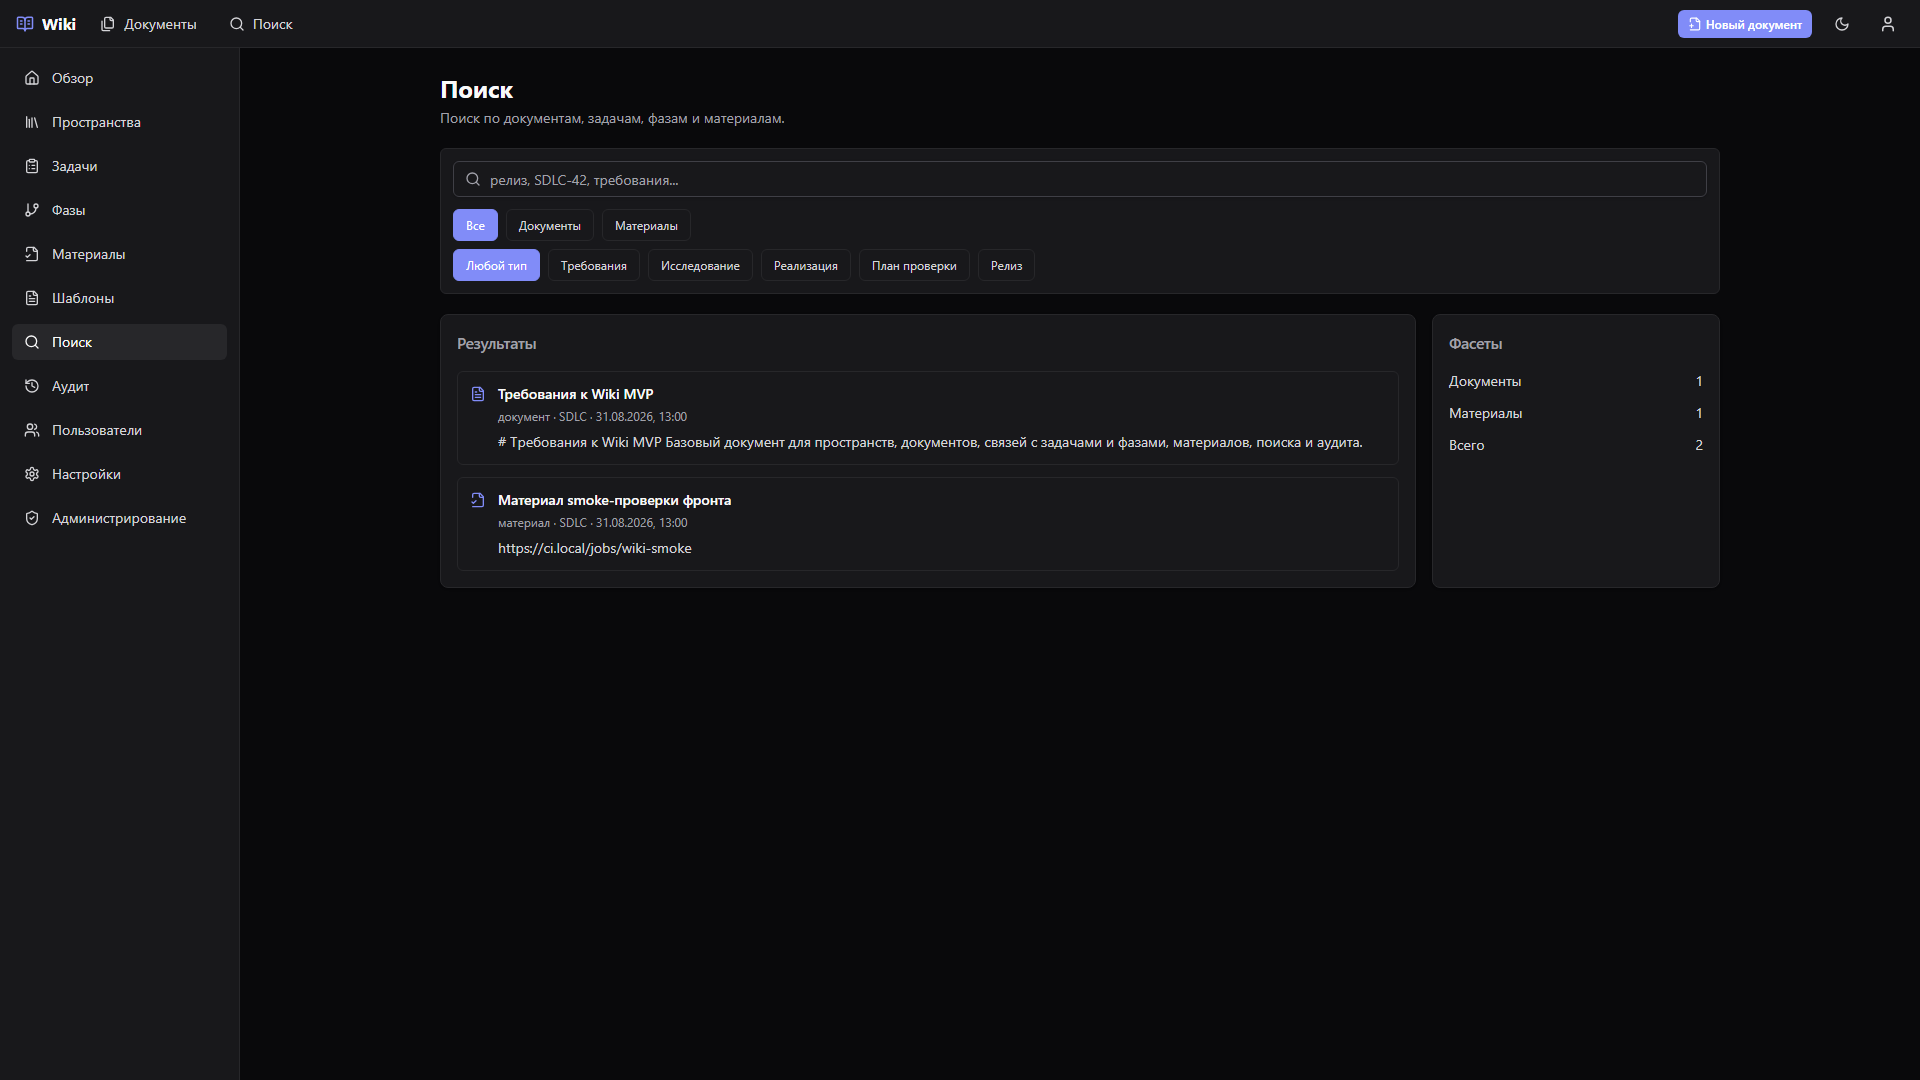
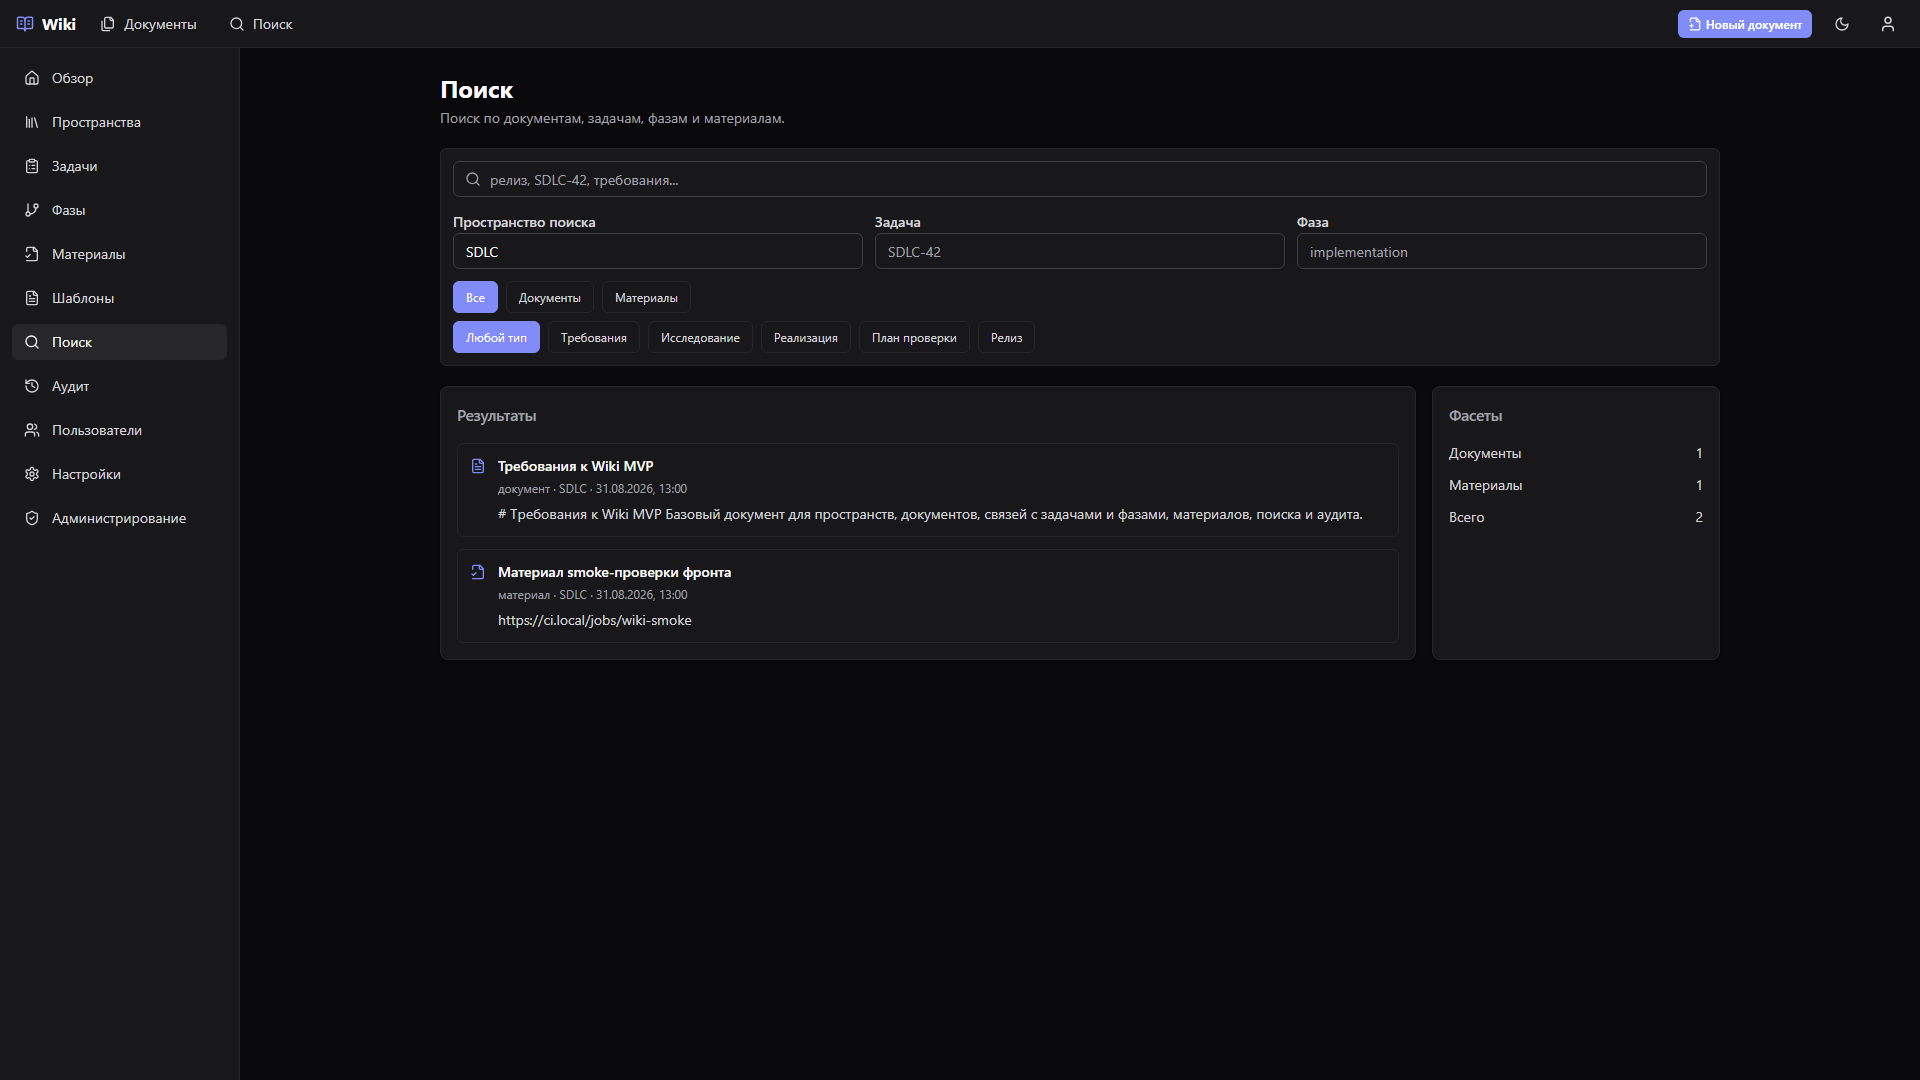
feat(frontend): expose search scope filters

diff --git a/frontend/src/pages/wiki-search/index.tsx b/frontend/src/pages/wiki-search/index.tsx
@@ -5,9 +5,10 @@ import { defaultSpaceKey, useWikiSearch } from '@/shared/api/hooks'
 import { EmptyState, ErrorState, LoadingState } from '@/shared/ui/async-states'
 import { Card, CardContent, CardHeader, CardTitle } from '@/shared/ui/card'
 import { Input } from '@/shared/ui/input'
+import { Label } from '@/shared/ui/label'
 import { formatApiErrorForUser } from '@/shared/lib/api-error'
 import { formatDateTime } from '@/shared/lib/wiki-format'
-import type { SearchResult } from '@/api/wiki'
+import type { SearchParams, SearchResult } from '@/api/wiki'
 
 const resultTypeFilters = [
   { label: 'Все', value: 'all' },
@@ -41,16 +42,30 @@ function countResults(results: SearchResult[], type: string) {
   return results.filter((result) => result.result_type === type).length
 }
 
+function optional(value: string) {
+  const trimmed = value.trim()
+  return trimmed === '' ? undefined : trimmed
+}
+
 export function WikiSearchPage() {
   const [query, setQuery] = useState('')
+  const [spaceFilter, setSpaceFilter] = useState(defaultSpaceKey)
+  const [taskFilter, setTaskFilter] = useState('')
+  const [phaseFilter, setPhaseFilter] = useState('')
   const [resultTypeFilter, setResultTypeFilter] = useState('all')
   const [documentTypeFilter, setDocumentTypeFilter] = useState('all')
-  const searchQuery = useWikiSearch({
-    q: query,
-    space: defaultSpaceKey,
-    document_type: documentTypeFilter === 'all' ? undefined : documentTypeFilter,
-    limit: 25,
-  })
+  const searchParams: SearchParams = useMemo(
+    () => ({
+      q: query,
+      space: optional(spaceFilter) ?? defaultSpaceKey,
+      task_key: optional(taskFilter),
+      phase_key: optional(phaseFilter),
+      document_type: documentTypeFilter === 'all' ? undefined : documentTypeFilter,
+      limit: 25,
+    }),
+    [documentTypeFilter, phaseFilter, query, spaceFilter, taskFilter],
+  )
+  const searchQuery = useWikiSearch(searchParams)
   const results = useMemo(() => searchQuery.data?.results ?? [], [searchQuery.data?.results])
   const filteredResults = useMemo(() => {
     if (resultTypeFilter === 'all') return results
@@ -70,11 +85,41 @@ export function WikiSearchPage() {
         <div className="relative">
           <Search className="pointer-events-none absolute left-3 top-2.5 h-4 w-4 text-text-muted" />
           <Input
+            aria-label="Поисковый запрос"
             className="pl-9"
             value={query}
             onChange={(event) => setQuery(event.target.value)}
             placeholder="релиз, SDLC-42, требования..."
           />
+        </div>
+        <div className="grid gap-3 md:grid-cols-3">
+          <div className="space-y-1.5">
+            <Label htmlFor="search-space">Пространство поиска</Label>
+            <Input
+              id="search-space"
+              value={spaceFilter}
+              onChange={(event) => setSpaceFilter(event.target.value.toUpperCase())}
+              placeholder="SDLC"
+            />
+          </div>
+          <div className="space-y-1.5">
+            <Label htmlFor="search-task">Задача</Label>
+            <Input
+              id="search-task"
+              value={taskFilter}
+              onChange={(event) => setTaskFilter(event.target.value)}
+              placeholder="SDLC-42"
+            />
+          </div>
+          <div className="space-y-1.5">
+            <Label htmlFor="search-phase">Фаза</Label>
+            <Input
+              id="search-phase"
+              value={phaseFilter}
+              onChange={(event) => setPhaseFilter(event.target.value)}
+              placeholder="implementation"
+            />
+          </div>
         </div>
         <div className="space-y-2">
           <div className="flex flex-wrap gap-2">

diff --git a/frontend/src/pages/wiki-search/wiki-search.test.tsx b/frontend/src/pages/wiki-search/wiki-search.test.tsx
@@ -54,7 +54,7 @@ describe('WikiSearchPage', () => {
     vi.clearAllMocks()
   })
 
-  it('filters visible result types and sends the selected document type to the API hook', () => {
+  it('filters visible result types and sends selected search filters to the API hook', () => {
     setupSearch()
 
     expect(screen.getByRole('link', { name: /Требования Wiki/ })).toHaveAttribute(
@@ -67,12 +67,22 @@ describe('WikiSearchPage', () => {
     expect(screen.getByRole('link', { name: /Требования Wiki/ })).toBeInTheDocument()
     expect(screen.queryByRole('link', { name: /Smoke proof/ })).not.toBeInTheDocument()
 
+    fireEvent.change(screen.getByLabelText('Поисковый запрос'), {
+      target: { value: 'релиз' },
+    })
+    fireEvent.change(screen.getByLabelText('Пространство поиска'), {
+      target: { value: 'eng' },
+    })
+    fireEvent.change(screen.getByLabelText('Задача'), { target: { value: 'SDLC-42' } })
+    fireEvent.change(screen.getByLabelText('Фаза'), { target: { value: 'testing' } })
     fireEvent.click(screen.getByRole('button', { name: 'План проверки' }))
     expect(useWikiSearch).toHaveBeenLastCalledWith({
       document_type: 'test_plan',
       limit: 25,
-      q: '',
-      space: 'SDLC',
+      phase_key: 'testing',
+      q: 'релиз',
+      space: 'ENG',
+      task_key: 'SDLC-42',
     })
   })
 

diff --git a/frontend/e2e/smoke.spec.ts b/frontend/e2e/smoke.spec.ts
@@ -461,10 +461,21 @@ test.describe('wiki smoke', () => {
 
     await page.goto(`${baseURL}/search`)
     await expect(page.getByRole('heading', { name: 'Поиск' })).toBeVisible()
+    await page.getByLabel('Поисковый запрос').fill('релиз')
+    await page.getByLabel('Пространство поиска').fill('SDLC')
+    await page.getByLabel('Задача').fill('SDLC-42')
+    await page.getByLabel('Фаза').fill('implementation')
     await page.getByRole('button', { name: 'Требования', exact: true }).click()
     await expect
       .poll(() =>
-        apiMocks.searchRequests.some((query) => query.includes('document_type=requirements')),
+        apiMocks.searchRequests.some(
+          (query) =>
+            query.includes('q=%D1%80%D0%B5%D0%BB%D0%B8%D0%B7') &&
+            query.includes('space=SDLC') &&
+            query.includes('task_key=SDLC-42') &&
+            query.includes('phase_key=implementation') &&
+            query.includes('document_type=requirements'),
+        ),
       )
       .toBe(true)
 

diff --git a/docs/CURRENT_STATE.md b/docs/CURRENT_STATE.md
@@ -41,7 +41,7 @@
 
 - Latest backend WSL regression after readiness, FTS query, attachment upload hardening, compose cleanup and shared tracker cleanup: `cargo fmt --all -- --check`, `cargo check --workspace`, `cargo test --workspace -- --test-threads=1 --nocapture`, `cargo clippy --workspace --all-targets -- -D warnings`.
 - Focused PostgreSQL test group passes against an isolated temporary WSL PostgreSQL database through `pwsh -File scripts/postgres-smoke-wsl.ps1`; the same test group also compiles and safely skips without `WIKI_TEST_DATABASE_URL`.
-- Latest frontend regression after space management and revision detail UI: `npm run typecheck`, `npm run test`, `npm run lint`, `npm run format:check`, `npm run build`, `npm run test:e2e -- --project=chromium`.
+- Latest frontend regression after attachment metadata/download and search filter UI: `npm run typecheck`, `npm run test`, `npm run lint`, `npm run format:check`, `npm run build`, `npm run test:e2e -- --project=chromium`.
 - Docker PostgreSQL smoke runner syntax check passed; `pwsh -File scripts/postgres-smoke.ps1` currently stops with a clear Docker-daemon unavailable message on this host because `com.docker.service` cannot be started from this process.
 - `docker compose config` and `docker compose -f backend/docker-compose.test.yml config` render the MVP service set without extra cache/worker services.
 - Screenshot script passed against `vite preview`: `npm run shoot:evidence` captured 17 desktop and 5 mobile MVP screenshots.

diff --git a/docs/assets/screens/manifest.md b/docs/assets/screens/manifest.md
@@ -44,7 +44,7 @@
 | [m-spaces.png](../../screenshots/m-spaces.png)               | `/spaces`                         | Spaces mobile layout        | 375x1404 |
 | [m-document-view.png](../../screenshots/m-document-view.png) | `/documents/product-requirements` | Document view mobile layout | 375x2034 |
 | [m-task-dossier.png](../../screenshots/m-task-dossier.png)   | `/tasks/SDLC-42`                  | Task page mobile layout     | 375x869  |
-| [m-search.png](../../screenshots/m-search.png)               | `/search`                         | Search mobile layout        | 375x850  |
+| [m-search.png](../../screenshots/m-search.png)               | `/search`                         | Search mobile layout        | 375x1066 |
 
 ## Review checklist
 
